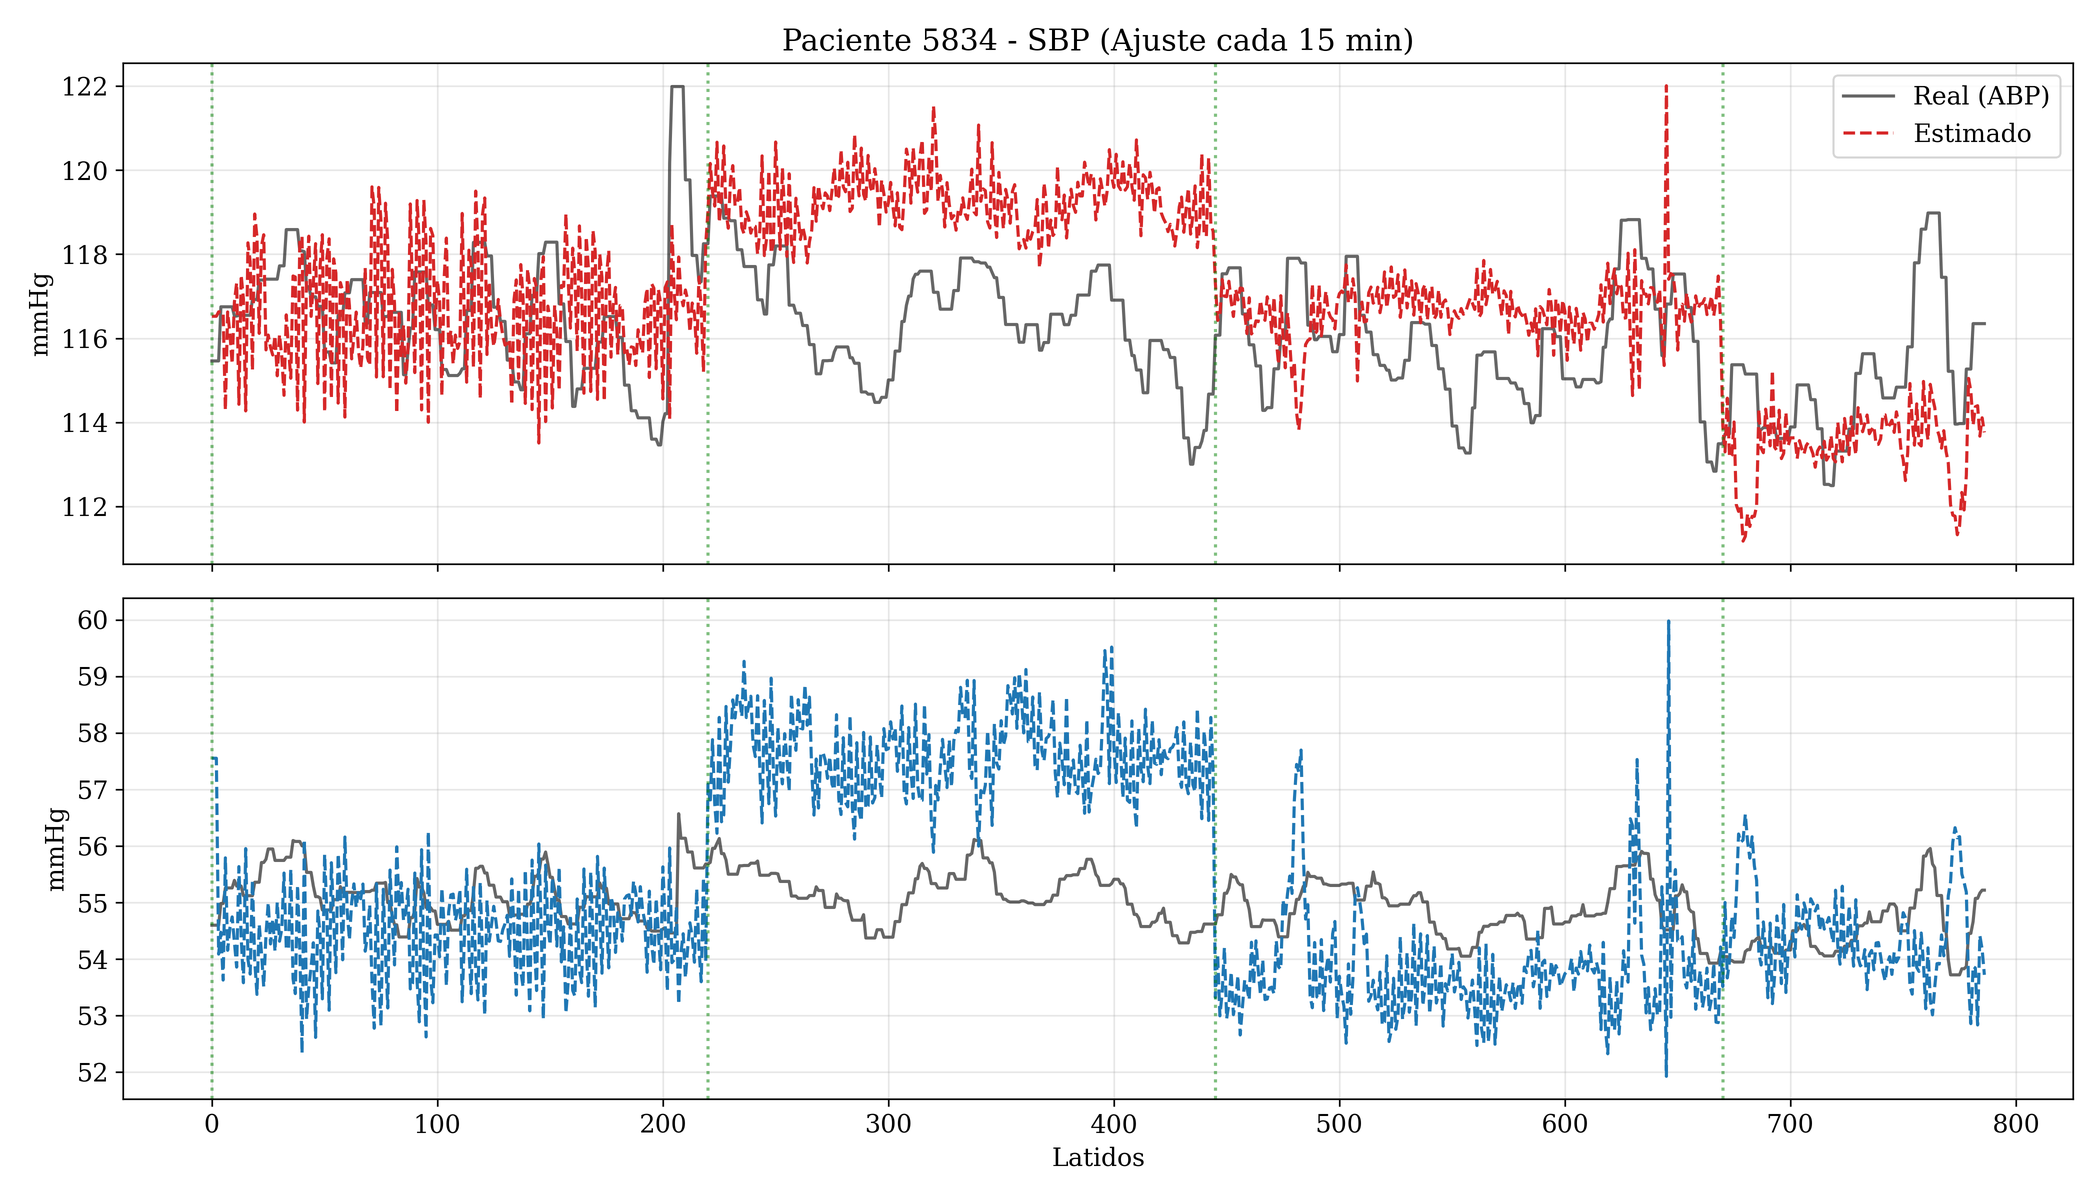
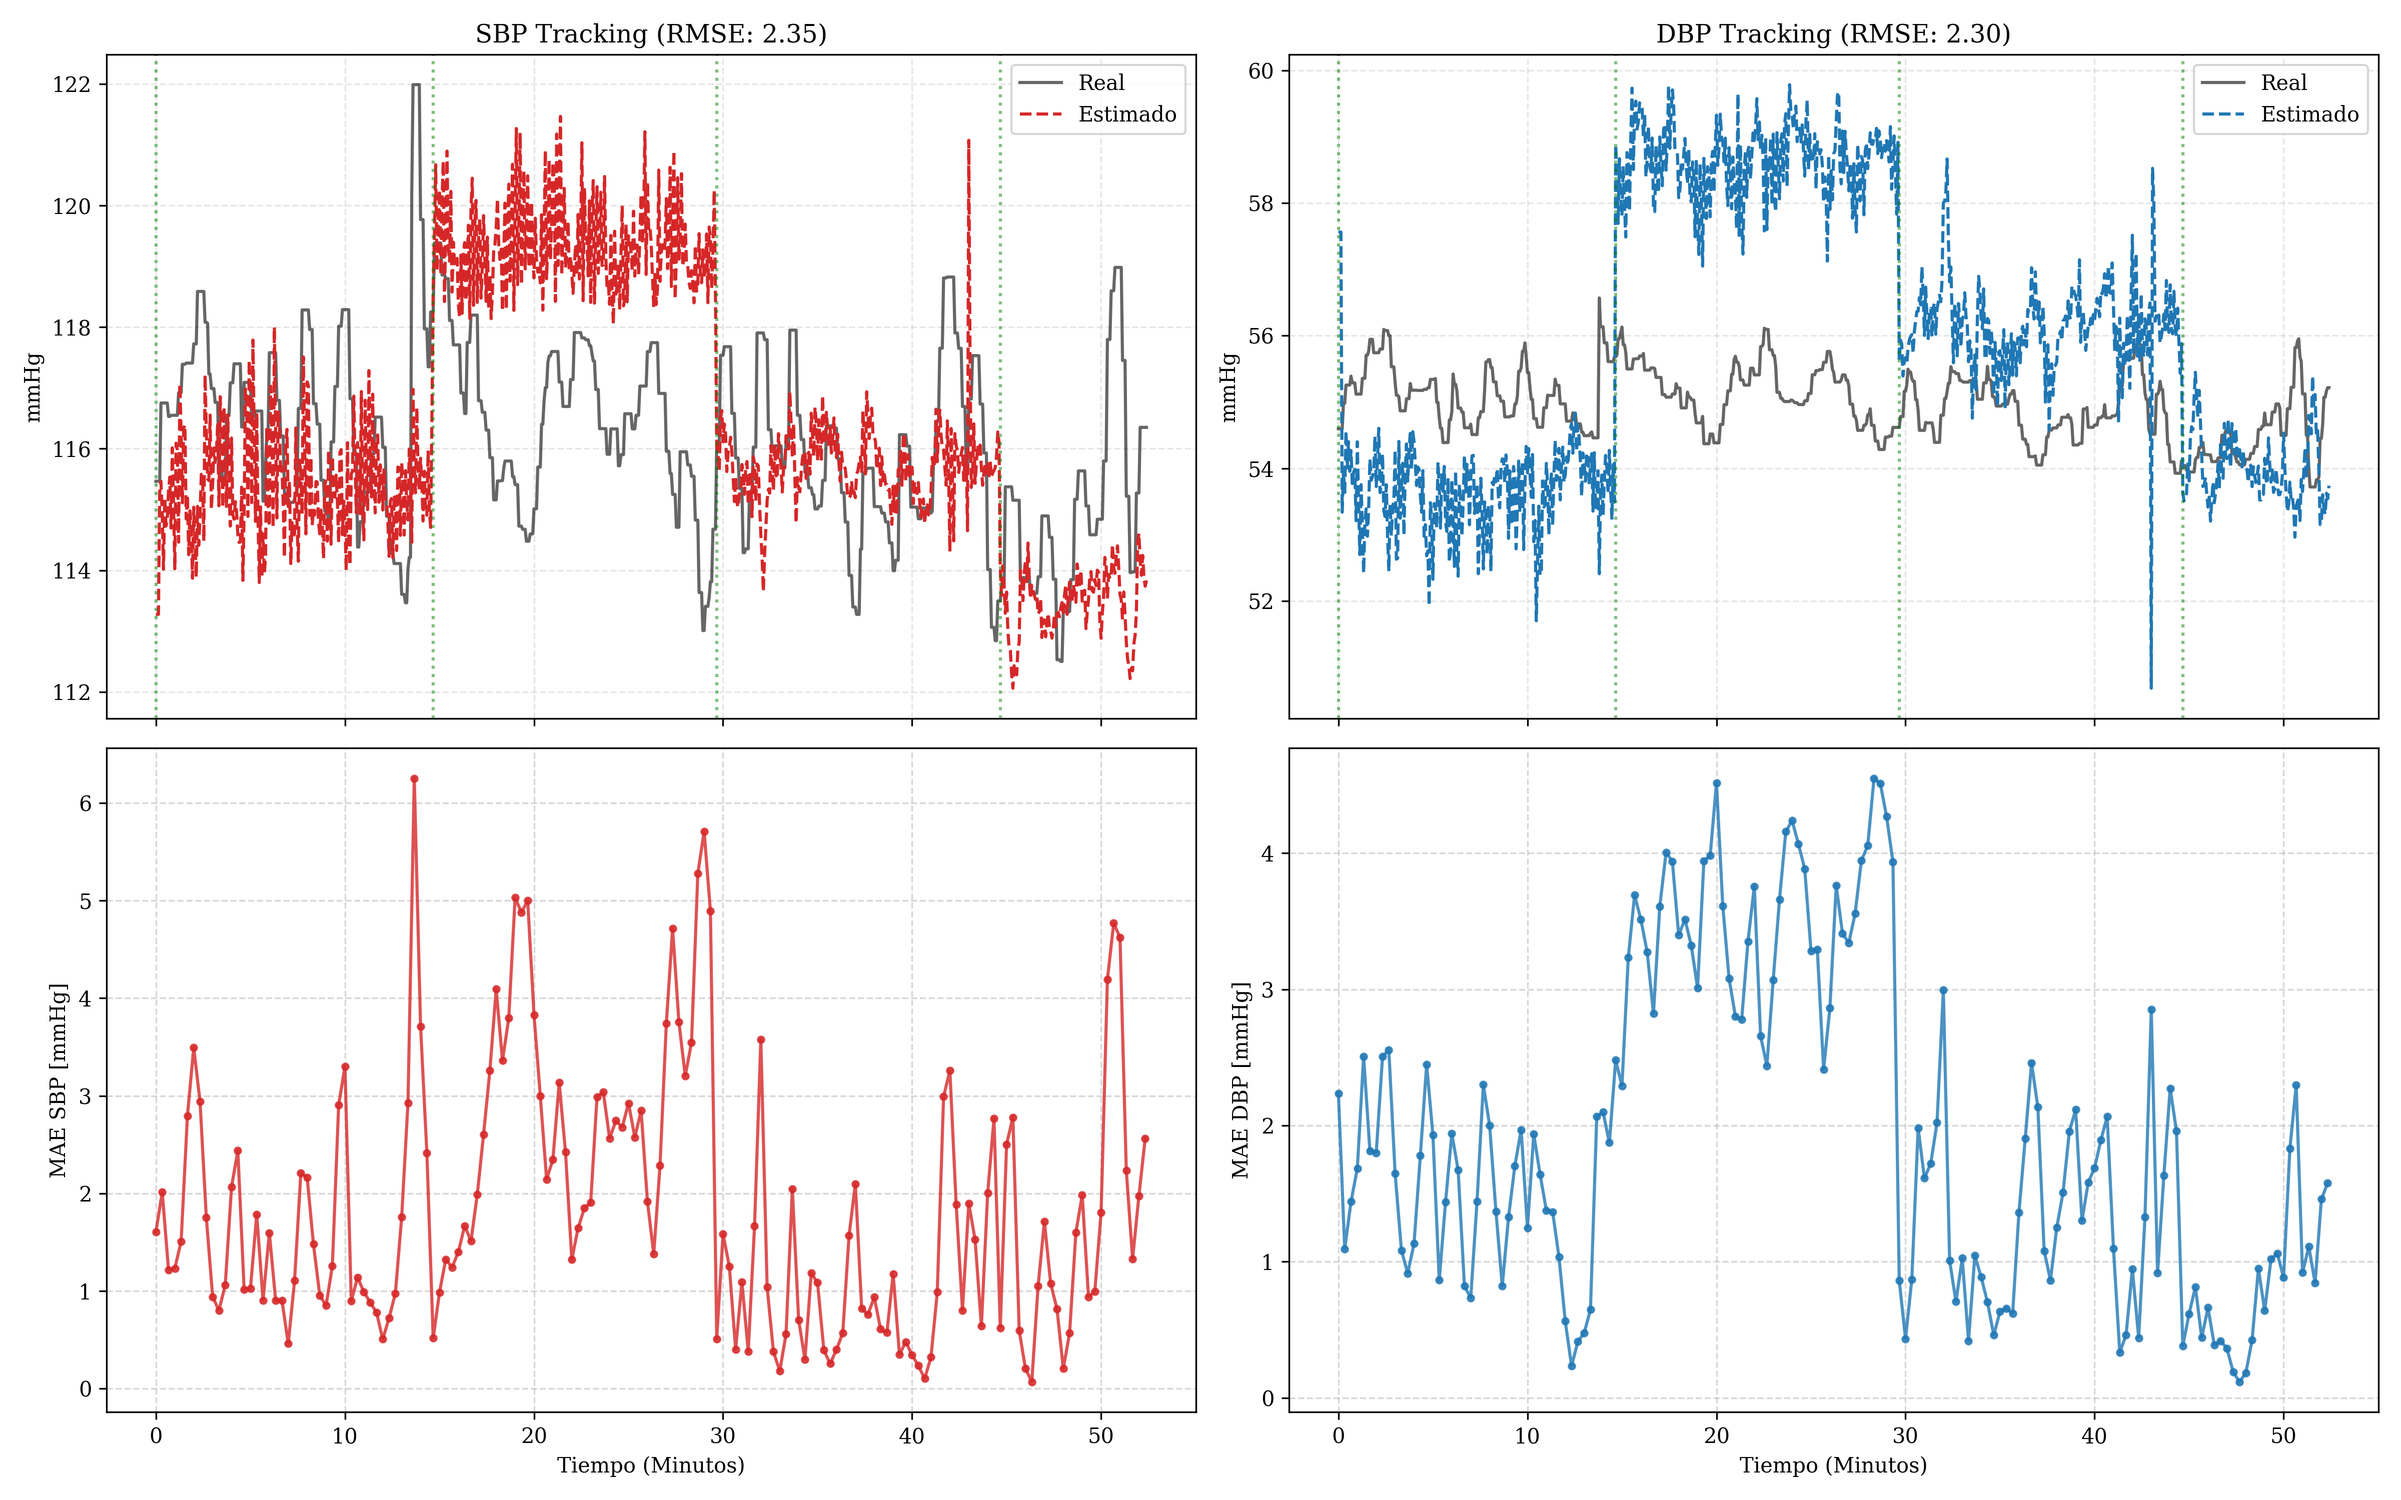
Commit previo a depuracion y documentacion

diff --git a/metalearning/Intrapatient_eval.py b/metalearning/Intrapatient_eval.py
@@ -27,9 +27,9 @@ def main(n_shots=5, n_epochs=5, lr=5e-3, MINUTOS_DESEADOS=15, NUM_PACIENTES_TOTA
     # ---------------------------------------------------------
     # CONFIGURACIÓN DEL EXPERIMENTO
     # ---------------------------------------------------------
-    IS_DELTA_MODEL = False  # True: Meta-Delta | False: Patient-wise Tradicional
+    IS_DELTA_MODEL = True  # True: Meta-Delta | False: Patient-wise Tradicional
     PATH_IDS_TEST = 'data/processed/data_UCI/few_shot_patient_data.pt'
-    PACIENTES_INTERES = [101, 2041, 8423, 1126]
+    PACIENTES_INTERES = [745, 10667, 550, 3124]
     
     if IS_DELTA_MODEL:
         NOMBRE_EXPERIMENTO = f"PERIODICO_PARTIAL_DELTA_{MINUTOS_DESEADOS}min"
@@ -57,15 +57,13 @@ def main(n_shots=5, n_epochs=5, lr=5e-3, MINUTOS_DESEADOS=15, NUM_PACIENTES_TOTA
     data_paths = [f'data/processed/data_UCI/dataset_parte_{i}_por_picos.pt' for i in range(1, 5)]
     dataset_completo = UCIDataset(data_paths)
 
-    # 2. Carga de IDs de Test Reales (Evita el TypeError)
+    # 2. Carga de IDs de Test Reales
     if not os.path.exists(PATH_IDS_TEST):
         print(f"ERROR: No se encuentra el archivo de IDs en {PATH_IDS_TEST}")
         return
     
     test_data = torch.load(PATH_IDS_TEST, weights_only=False)
     ids_disponibles_test = test_data['test_patient_ids'] if isinstance(test_data, dict) else test_data
-    
-    # IMPORTANTE: Convertimos a lista para que TaskDataset pueda iterar
     ids_list = list(ids_disponibles_test)
 
     # 3. Carga del Modelo
@@ -80,7 +78,6 @@ def main(n_shots=5, n_epochs=5, lr=5e-3, MINUTOS_DESEADOS=15, NUM_PACIENTES_TOTA
     criterion = torch.nn.MSELoss()
 
     # 4. Selección de Pacientes
-    # Pasamos la lista de IDs para evitar el error 'NoneType' is not iterable
     taskset = TaskDataset(list_IDs=ids_list, base_dataset=dataset_completo, num_shots=n_shots)
     mapa_indices = taskset.patient_to_indices
     
@@ -98,7 +95,6 @@ def main(n_shots=5, n_epochs=5, lr=5e-3, MINUTOS_DESEADOS=15, NUM_PACIENTES_TOTA
         print(f"\n >> PROCESANDO PACIENTE: {id_paciente}")
         model.load_state_dict(new_state_dict, strict=False)
         
-        # Partial Tuning: Congelar Convolucionales, liberar Dense
         for param in model.parameters(): param.requires_grad = False
         for name, param in model.named_parameters():
             if 'dense' in name: param.requires_grad = True
@@ -110,11 +106,13 @@ def main(n_shots=5, n_epochs=5, lr=5e-3, MINUTOS_DESEADOS=15, NUM_PACIENTES_TOTA
 
         historial_sbp = {'real': [], 'pred': []}
         historial_dbp = {'real': [], 'pred': []}
+        historial_mae_sbp_lote = []
+        historial_mae_dbp_lote = []
+        
         puntos_ajuste = []
         bias_norm = None
 
         for i, (batch_signals, batch_labels) in enumerate(loader):
-            # Ajuste periódico
             if i == 0 or (i + 1) % intervalo_ajuste == 0:
                 model.train()
                 if IS_DELTA_MODEL:
@@ -125,7 +123,7 @@ def main(n_shots=5, n_epochs=5, lr=5e-3, MINUTOS_DESEADOS=15, NUM_PACIENTES_TOTA
                 
                 for _ in range(n_epochs):
                     _ = Fewshot.tuning((batch_signals, labels_tuning), optimizer, model, criterion, device)
-                puntos_ajuste.append(i * n_shots)
+                puntos_ajuste.append(i * n_shots) # Guardamos el índice base
 
             model.eval()
             preds_raw, _ = Fewshot.evaluation((batch_signals, batch_labels), model, criterion, device)
@@ -143,24 +141,66 @@ def main(n_shots=5, n_epochs=5, lr=5e-3, MINUTOS_DESEADOS=15, NUM_PACIENTES_TOTA
 
             historial_sbp['real'].extend(t_s); historial_sbp['pred'].extend(p_s)
             historial_dbp['real'].extend(t_d); historial_dbp['pred'].extend(p_d)
+            
+            mae_lote_s = mean_absolute_error(t_s, p_s)
+            mae_lote_d = mean_absolute_error(t_d, p_d)
+            historial_mae_sbp_lote.append(mae_lote_s)
+            historial_mae_dbp_lote.append(mae_lote_d)
+
+        # ### ------------------------------------------------------------- ###
+        # ### --- NUEVO: CONVERSIÓN A ESCALA DE TIEMPO (MINUTOS) --- ###
+        # ### ------------------------------------------------------------- ###
+        # 1 ventana de señal = 500 muestras / 125 Hz = 4.0 segundos
+        segundos_por_senal = 500 / 125.0
+        minutos_por_senal = segundos_por_senal / 60.0
+        minutos_por_lote = minutos_por_senal * n_shots
+
+        # Arrays para el eje X en minutos
+        x_tiempo_muestras = [i * minutos_por_senal for i in range(len(historial_sbp['real']))]
+        x_tiempo_lotes = [j * minutos_por_lote for j in range(len(historial_mae_sbp_lote))]
+        puntos_ajuste_min = [p * minutos_por_senal for p in puntos_ajuste]
 
         # Gráficas homogeneizadas
-        mae_s, rmse_s, bias_s, sd_s = calcular_metricas_avanzadas(historial_sbp['real'], historial_sbp['pred'])
-        plt.rcParams.update({'font.size': 12, 'font.family': 'serif'})
-        fig, axs = plt.subplots(2, 1, figsize=(14, 8), sharex=True)
-        x_axis = range(len(historial_sbp['real']))
+        mae_s, rmse_s, _, _ = calcular_metricas_avanzadas(historial_sbp['real'], historial_sbp['pred'])
+        mae_d, rmse_d, _, _ = calcular_metricas_avanzadas(historial_dbp['real'], historial_dbp['pred'])
+        
+        plt.rcParams.update({'font.size': 10, 'font.family': 'serif'})
+        # sharex='col' asegura que los gráficos de arriba y abajo compartan el mismo eje de tiempo
+        fig, axs = plt.subplots(2, 2, figsize=(16, 10), sharex='col')
+        
         color_p = 'tab:red' if IS_DELTA_MODEL else 'tab:orange'
         
-        axs[0].plot(x_axis, historial_sbp['real'], 'k', alpha=0.6, label='Real (ABP)')
-        axs[0].plot(x_axis, historial_sbp['pred'], color=color_p, linestyle='--', label='Estimado')
-        for p in puntos_ajuste: axs[0].axvline(x=p, color='green', linestyle=':', alpha=0.5, linewidth=1.5)
-        axs[0].set_title(f"Paciente {id_paciente} - SBP (Ajuste cada {MINUTOS_DESEADOS} min)")
-        axs[0].set_ylabel("mmHg"); axs[0].legend(loc='upper right'); axs[0].grid(True, alpha=0.3)
+        # --- Fila 1, Columna 1: Tracking SBP ---
+        axs[0, 0].plot(x_tiempo_muestras, historial_sbp['real'], 'k', alpha=0.6, label='Real')
+        axs[0, 0].plot(x_tiempo_muestras, historial_sbp['pred'], color=color_p, linestyle='--', label='Estimado')
+        for p in puntos_ajuste_min: 
+            axs[0, 0].axvline(x=p, color='green', linestyle=':', alpha=0.5)
+        axs[0, 0].set_title(f"SBP Tracking (RMSE: {rmse_s:.2f})")
+        axs[0, 0].set_ylabel("mmHg")
+        axs[0, 0].legend(loc='upper right')
+        axs[0, 0].grid(True, alpha=0.3, linestyle='--')
 
-        axs[1].plot(x_axis, historial_dbp['real'], 'k', alpha=0.6)
-        axs[1].plot(x_axis, historial_dbp['pred'], color='tab:blue', linestyle='--')
-        for p in puntos_ajuste: axs[1].axvline(x=p, color='green', linestyle=':', alpha=0.5, linewidth=1.5)
-        axs[1].set_xlabel("Latidos"); axs[1].set_ylabel("mmHg"); axs[1].grid(True, alpha=0.3)
+        # --- Fila 1, Columna 2: Tracking DBP ---
+        axs[0, 1].plot(x_tiempo_muestras, historial_dbp['real'], 'k', alpha=0.6, label='Real')
+        axs[0, 1].plot(x_tiempo_muestras, historial_dbp['pred'], color='tab:blue', linestyle='--', label='Estimado')
+        for p in puntos_ajuste_min: 
+            axs[0, 1].axvline(x=p, color='green', linestyle=':', alpha=0.5)
+        axs[0, 1].set_title(f"DBP Tracking (RMSE: {rmse_d:.2f})")
+        axs[0, 1].set_ylabel("mmHg")
+        axs[0, 1].legend(loc='upper right')
+        axs[0, 1].grid(True, alpha=0.3, linestyle='--')
+
+        # --- Fila 2, Columna 1: MAE SBP por Lote ---
+        axs[1, 0].plot(x_tiempo_lotes, historial_mae_sbp_lote, color=color_p, marker='.', linestyle='-', markersize=6, alpha=0.8)
+        axs[1, 0].set_xlabel("Tiempo (Minutos)")
+        axs[1, 0].set_ylabel("MAE SBP [mmHg]")
+        axs[1, 0].grid(True, alpha=0.5, linestyle='--')
+
+        # --- Fila 2, Columna 2: MAE DBP por Lote ---
+        axs[1, 1].plot(x_tiempo_lotes, historial_mae_dbp_lote, color='tab:blue', marker='.', linestyle='-', markersize=6, alpha=0.8)
+        axs[1, 1].set_xlabel("Tiempo (Minutos)")
+        axs[1, 1].set_ylabel("MAE DBP [mmHg]")
+        axs[1, 1].grid(True, alpha=0.5, linestyle='--')
         
         plt.tight_layout()
         plt.savefig(os.path.join(save_dir, f"peri_partial_{id_paciente}.png"), dpi=300)
